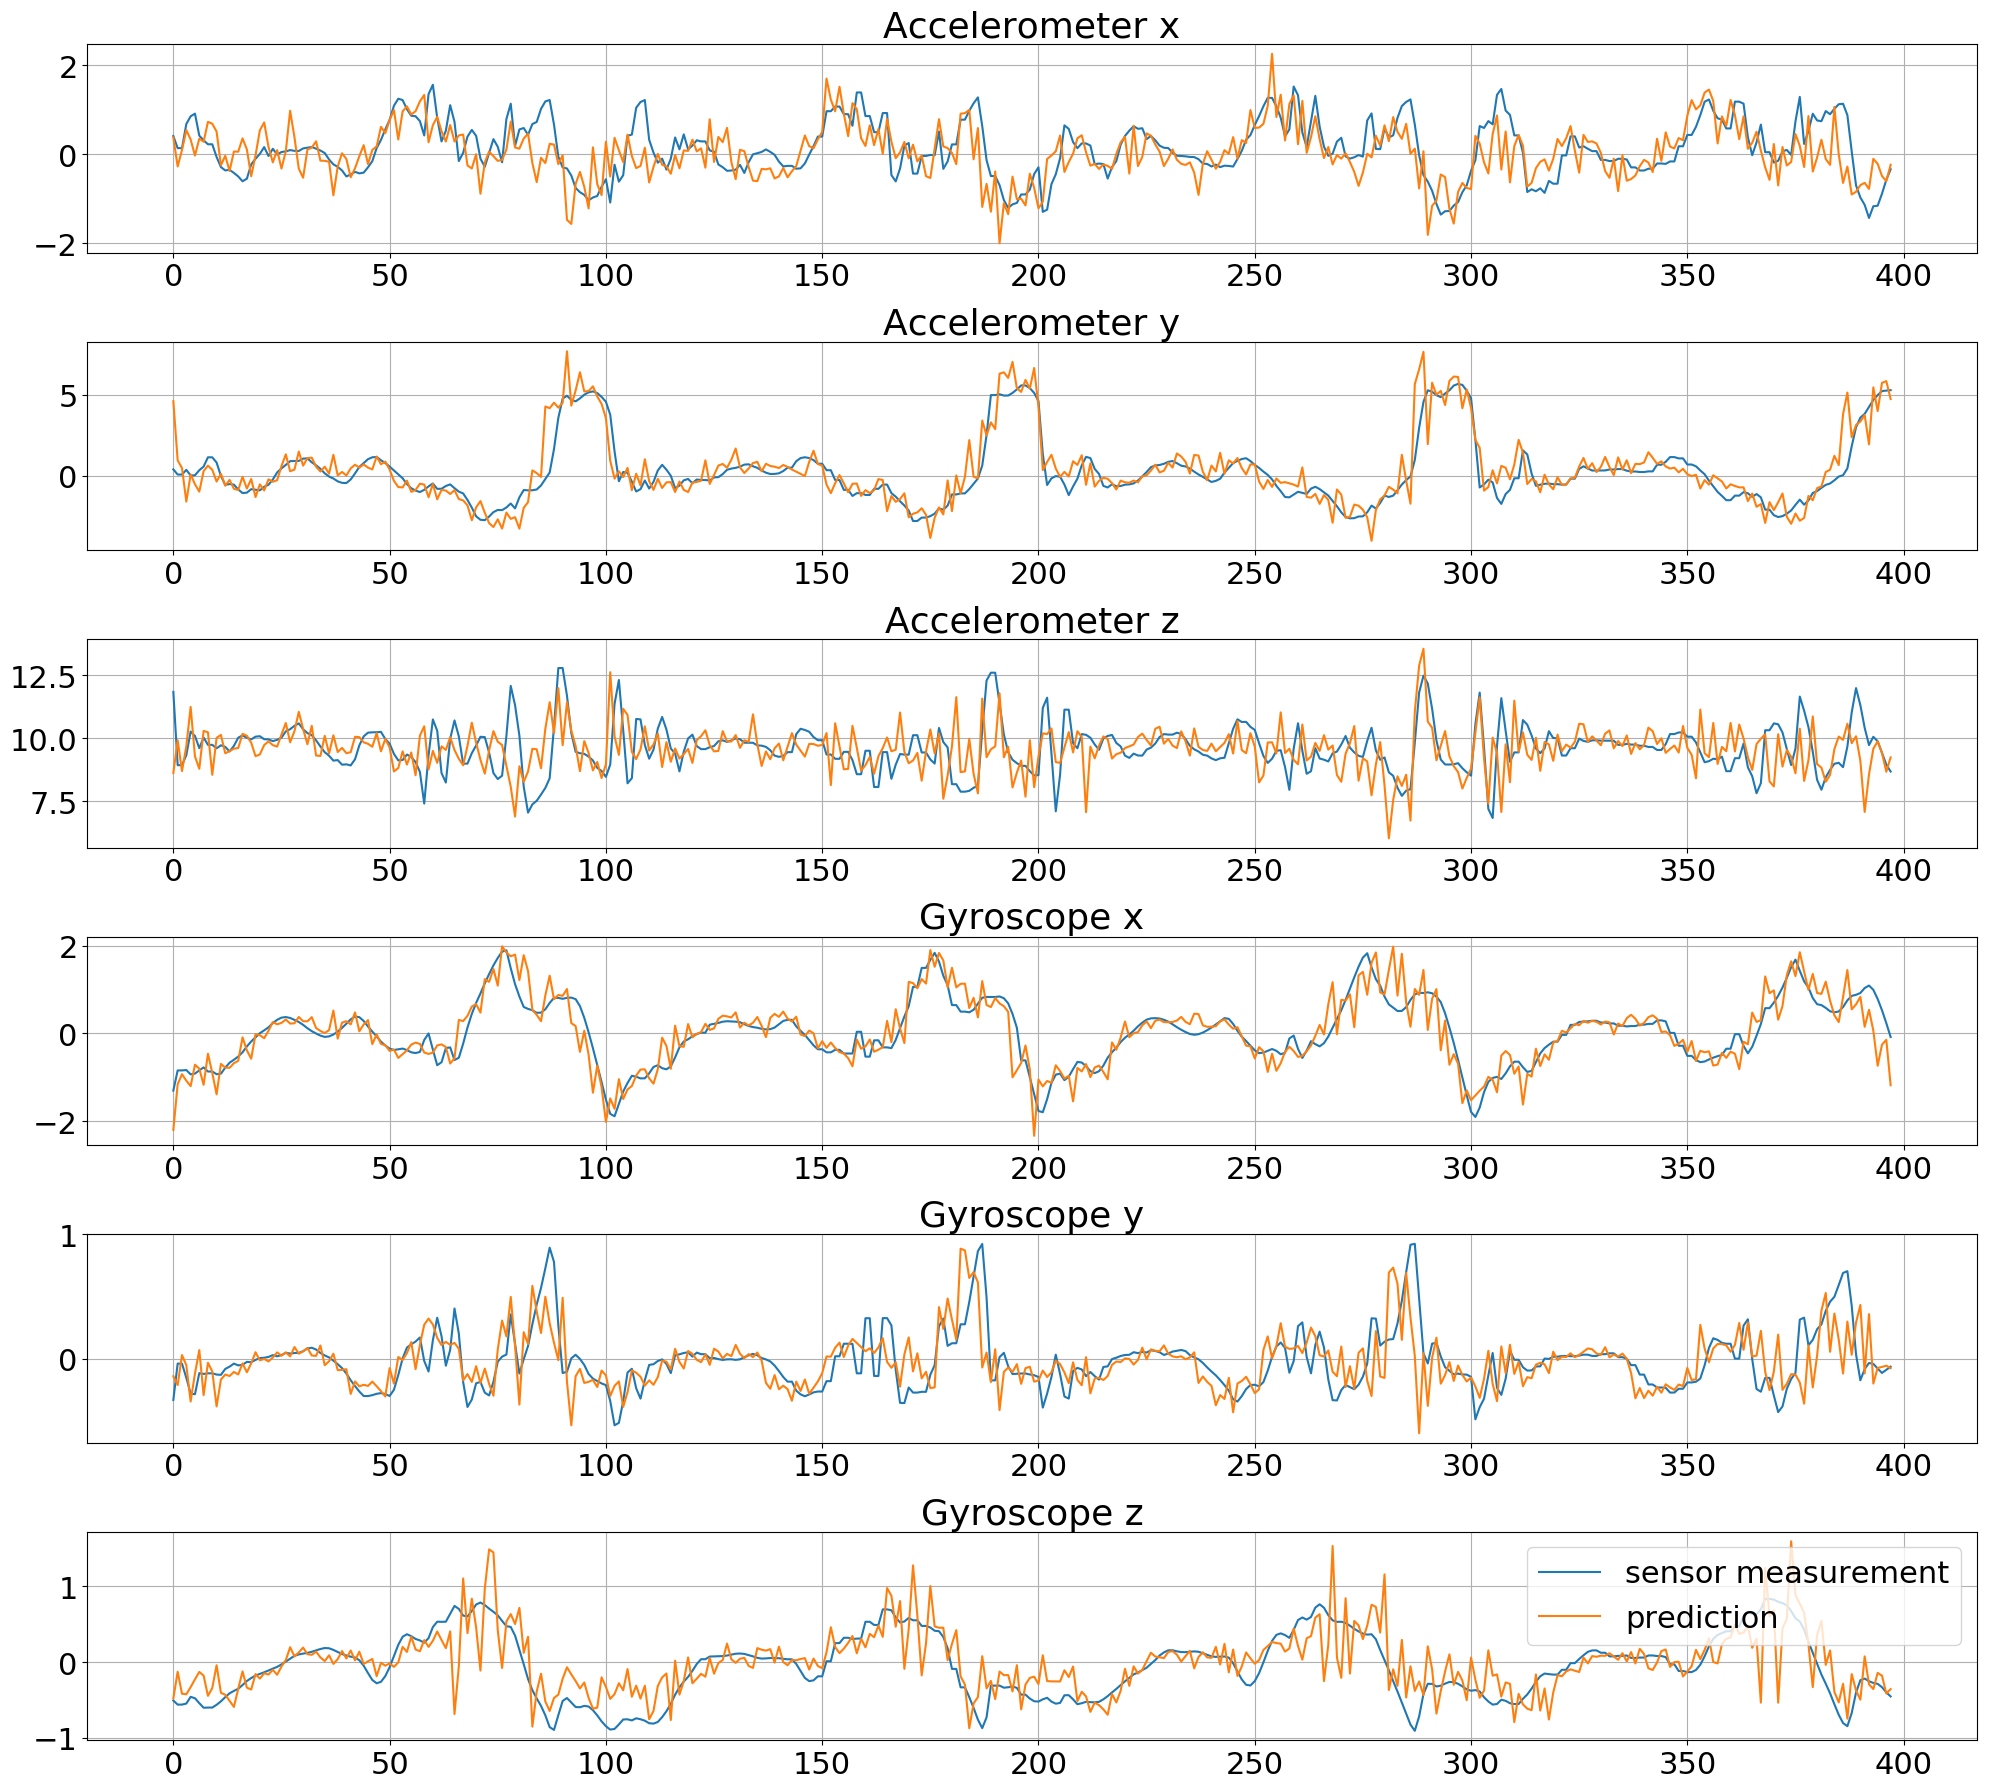
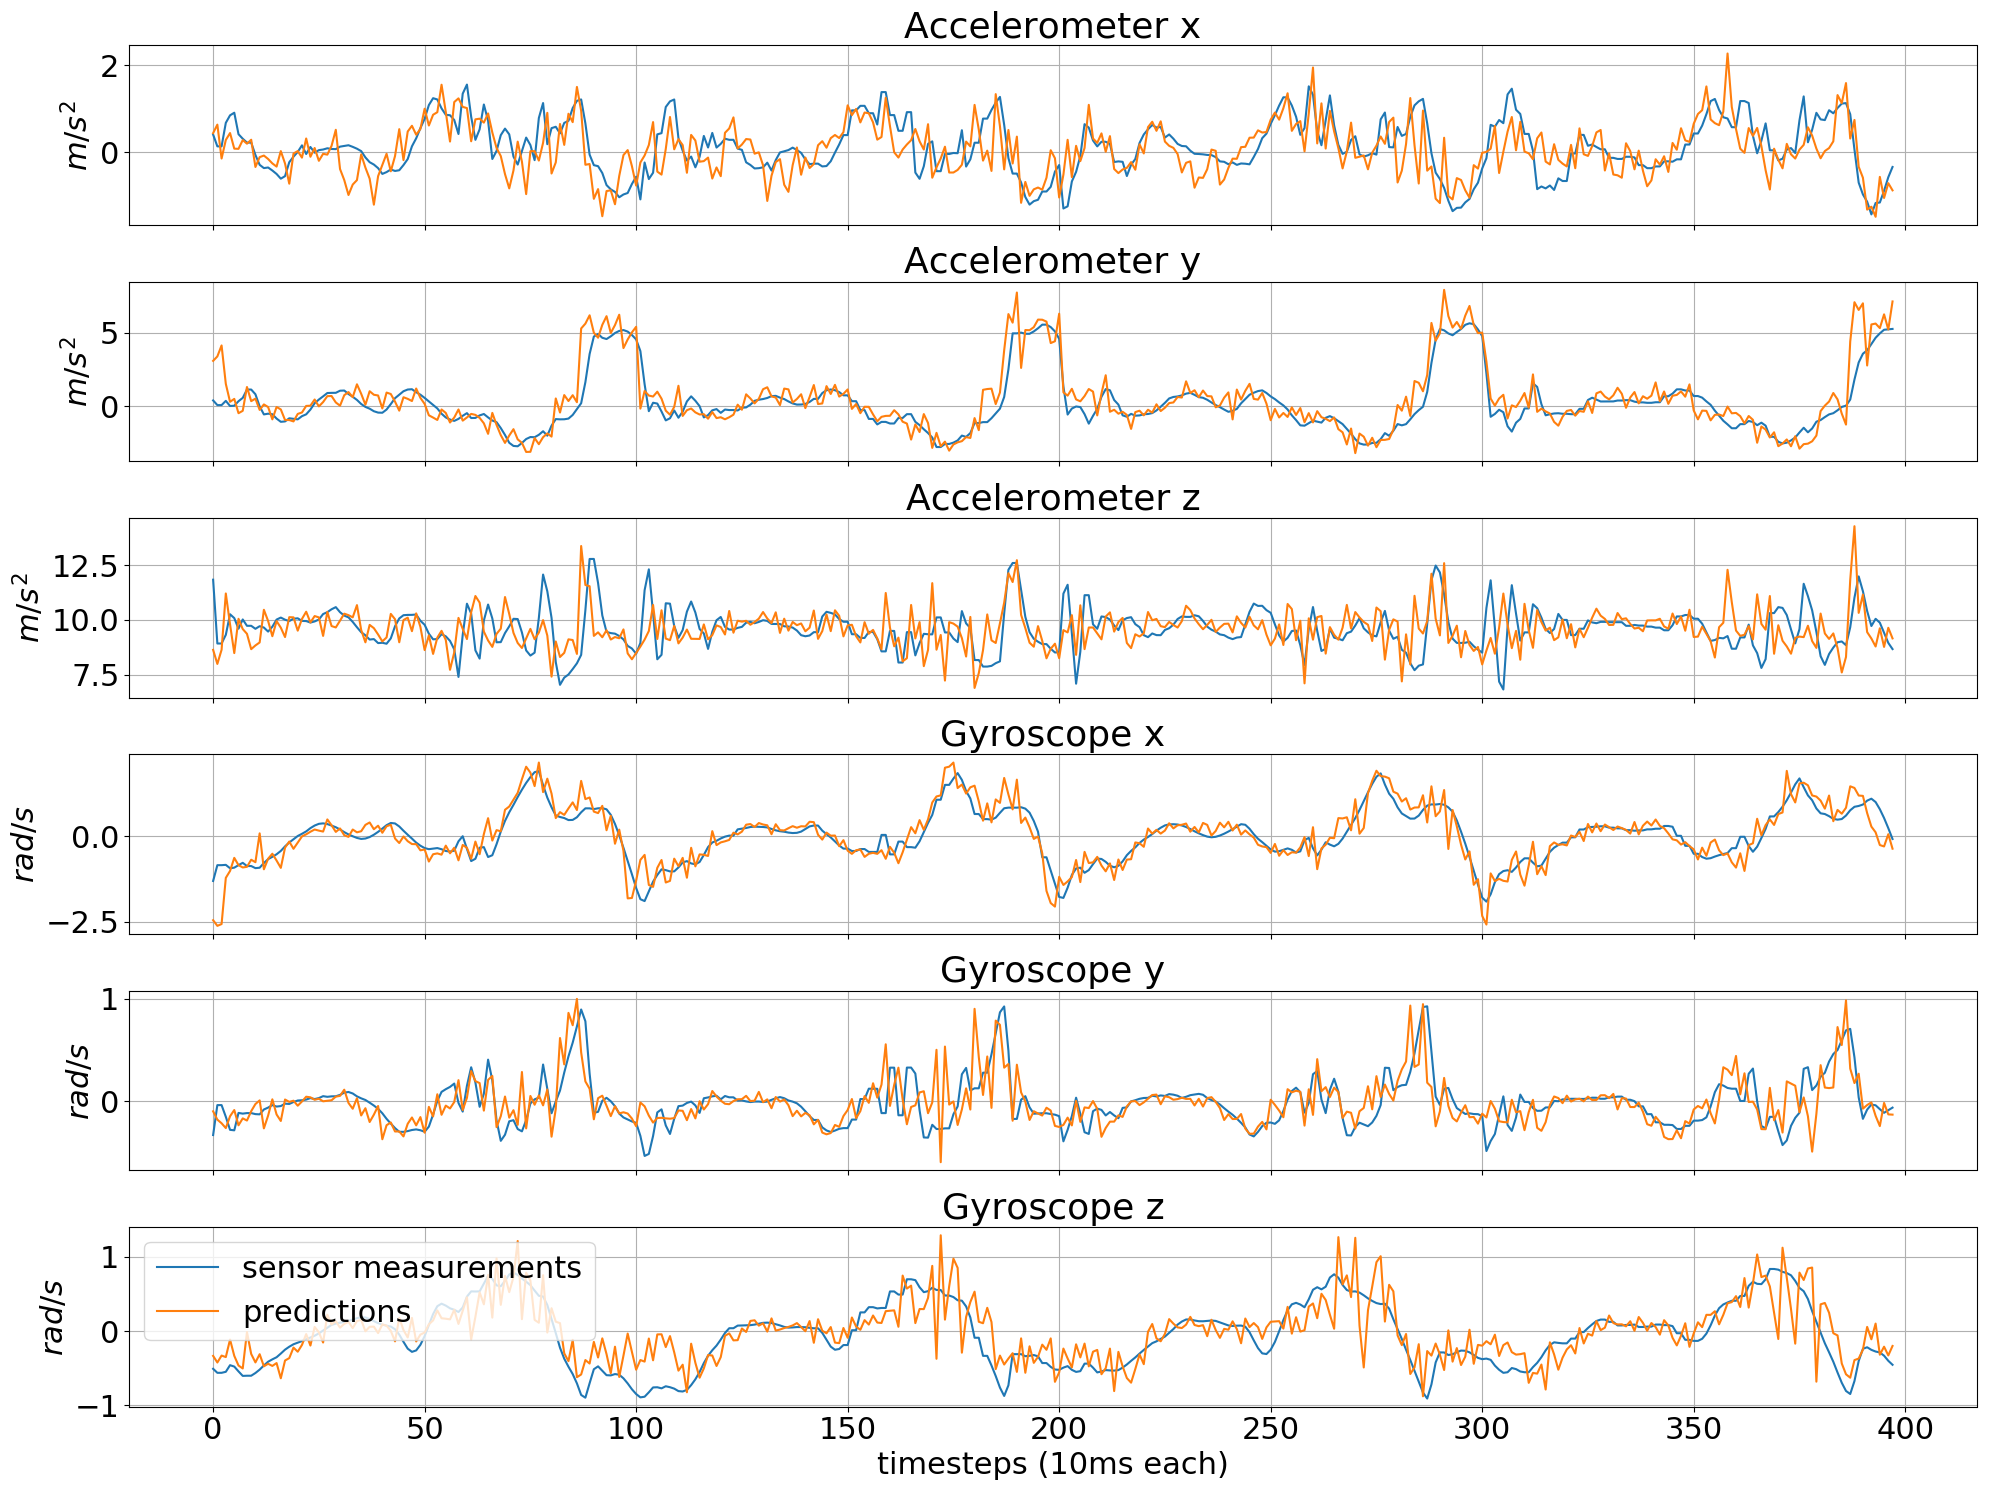
Changed igmm presentation

diff --git a/pickle_scripts/analyze_pickle.py b/pickle_scripts/analyze_pickle.py
@@ -787,7 +787,6 @@ class Analyzer():
 
 
     def learn_motor_sensor_igmm(self):
-        # TODO: USE FOR EXPERIMENT
         parser = argparse.ArgumentParser()
         parser.add_argument("-dimensions", "--show_dimensions", type=int, default = 0)
         args, unknown_args = parser.parse_known_args()
@@ -819,9 +818,9 @@ class Analyzer():
             show_sensors = args.show_dimensions
         i = 0
 
-        subplot_height = 3
+        subplot_height = 2.5
 
-        f, axarr = plt.subplots(show_sensors, figsize=(20,subplot_height * self.numsen))
+        f, axarr = plt.subplots(show_sensors, figsize=(20,subplot_height * self.numsen), sharex=True)
 
 
         #print self.x_pred_coefficients[:-self.lag, :, 0]
@@ -840,13 +839,36 @@ class Analyzer():
 
                 axarr[i].set_title(title)
                 axarr[i].grid()
+
+                axarr[i].set_ylabel("$" + self.sensor_units[sensor_name] + "$")
                 i+=1
 
                 if i >= show_sensors:
+                    axarr[i -1].set_xlabel("timesteps (10ms each)")
                     break
             if i >= show_sensors:
+                axarr[i -1].set_xlabel("timesteps (10ms each)")
                 break
         plt.legend()
+
+        _var = np.var(self.sensor_values, axis=0)
+
+        mse = np.mean((testDataSampled[:,self.nummot:] - testDataAll[:,self.nummot:]) ** 2, axis=0)
+        mse_var = mse / _var
+
+        #print np.mean(self.testData["motor"][:-args.lag], axis = 0)
+
+        #print np.mean(self.trainingData["motor"], axis = 0)
+        #print np.mean(self.testData["motor"], axis = 0)
+
+        print "\tacc \t gyr\ttotal"
+        print "mse:\t%.3f\t%.3f\t%.3f" % (np.mean(mse[:3]), np.mean(mse[3:]),np.mean(mse))
+        print "var:\t%.3f\t%.3f\t%.3f" % (np.mean(_var[:3]), np.mean(_var[3:]), np.mean(_var))
+        print "nmse:\t%.3f\t%.3f\t%.3f" % (np.mean(mse_var[:3]), np.mean(mse_var[3:]), np.mean(mse_var))
+
+        print mse
+        print _var
+        print mse_var
 
         plt.tight_layout()
         self._save_image(f, 'img/igmm_pred.png', tight=True)
